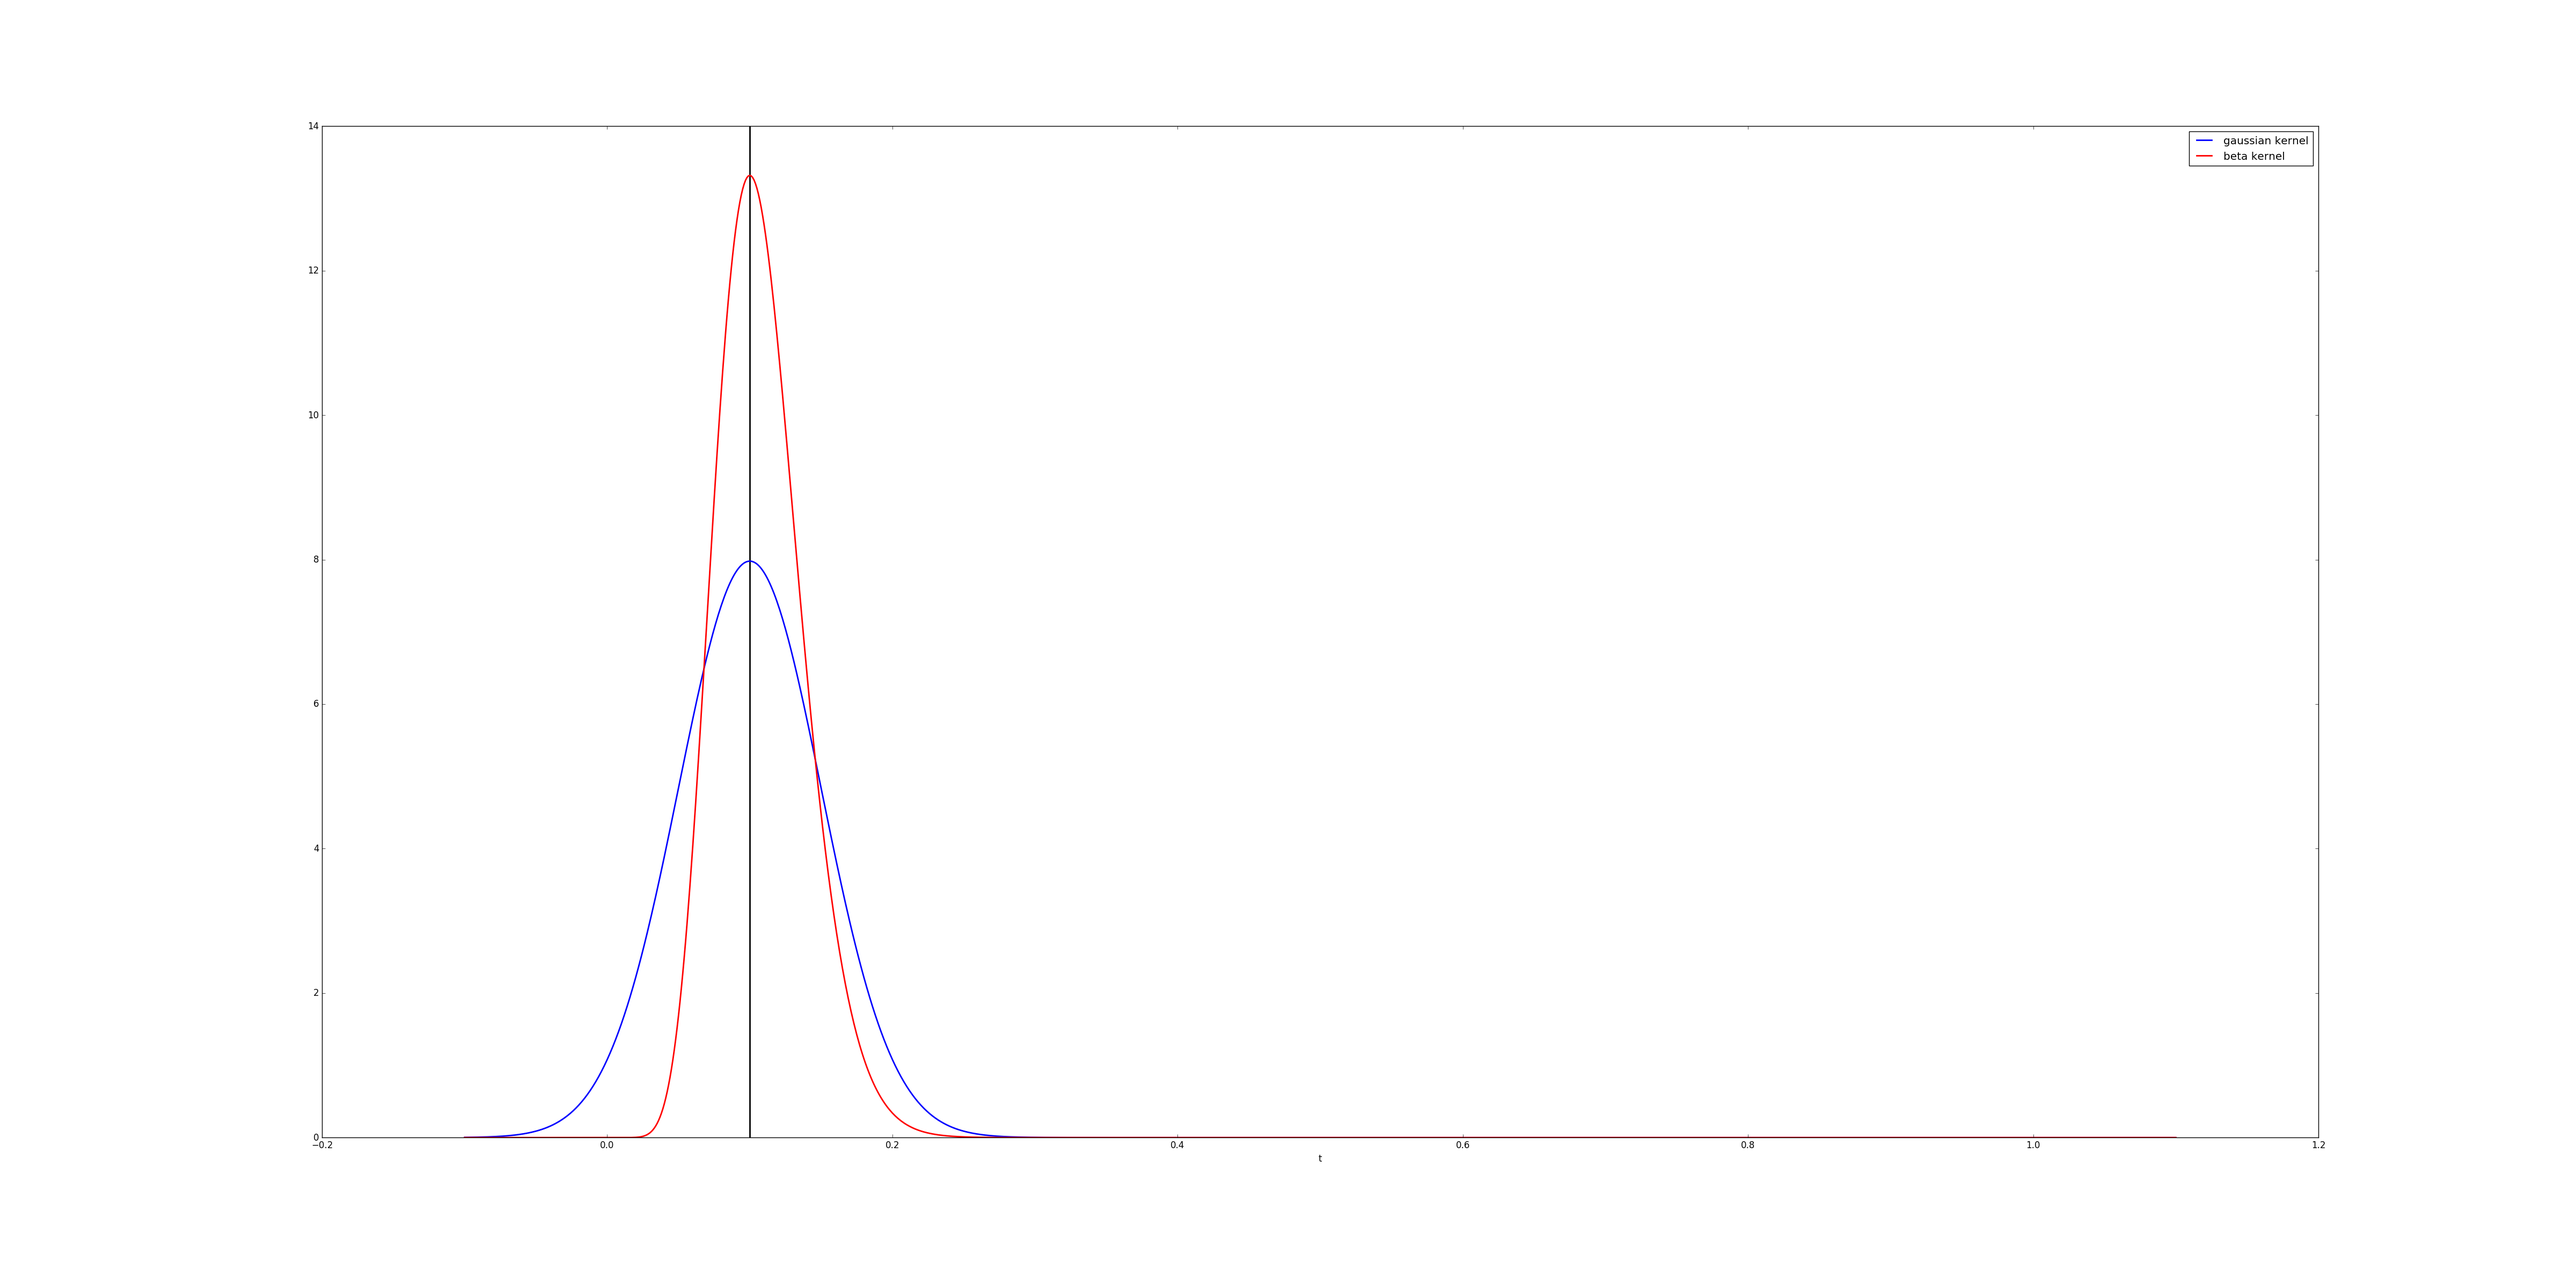
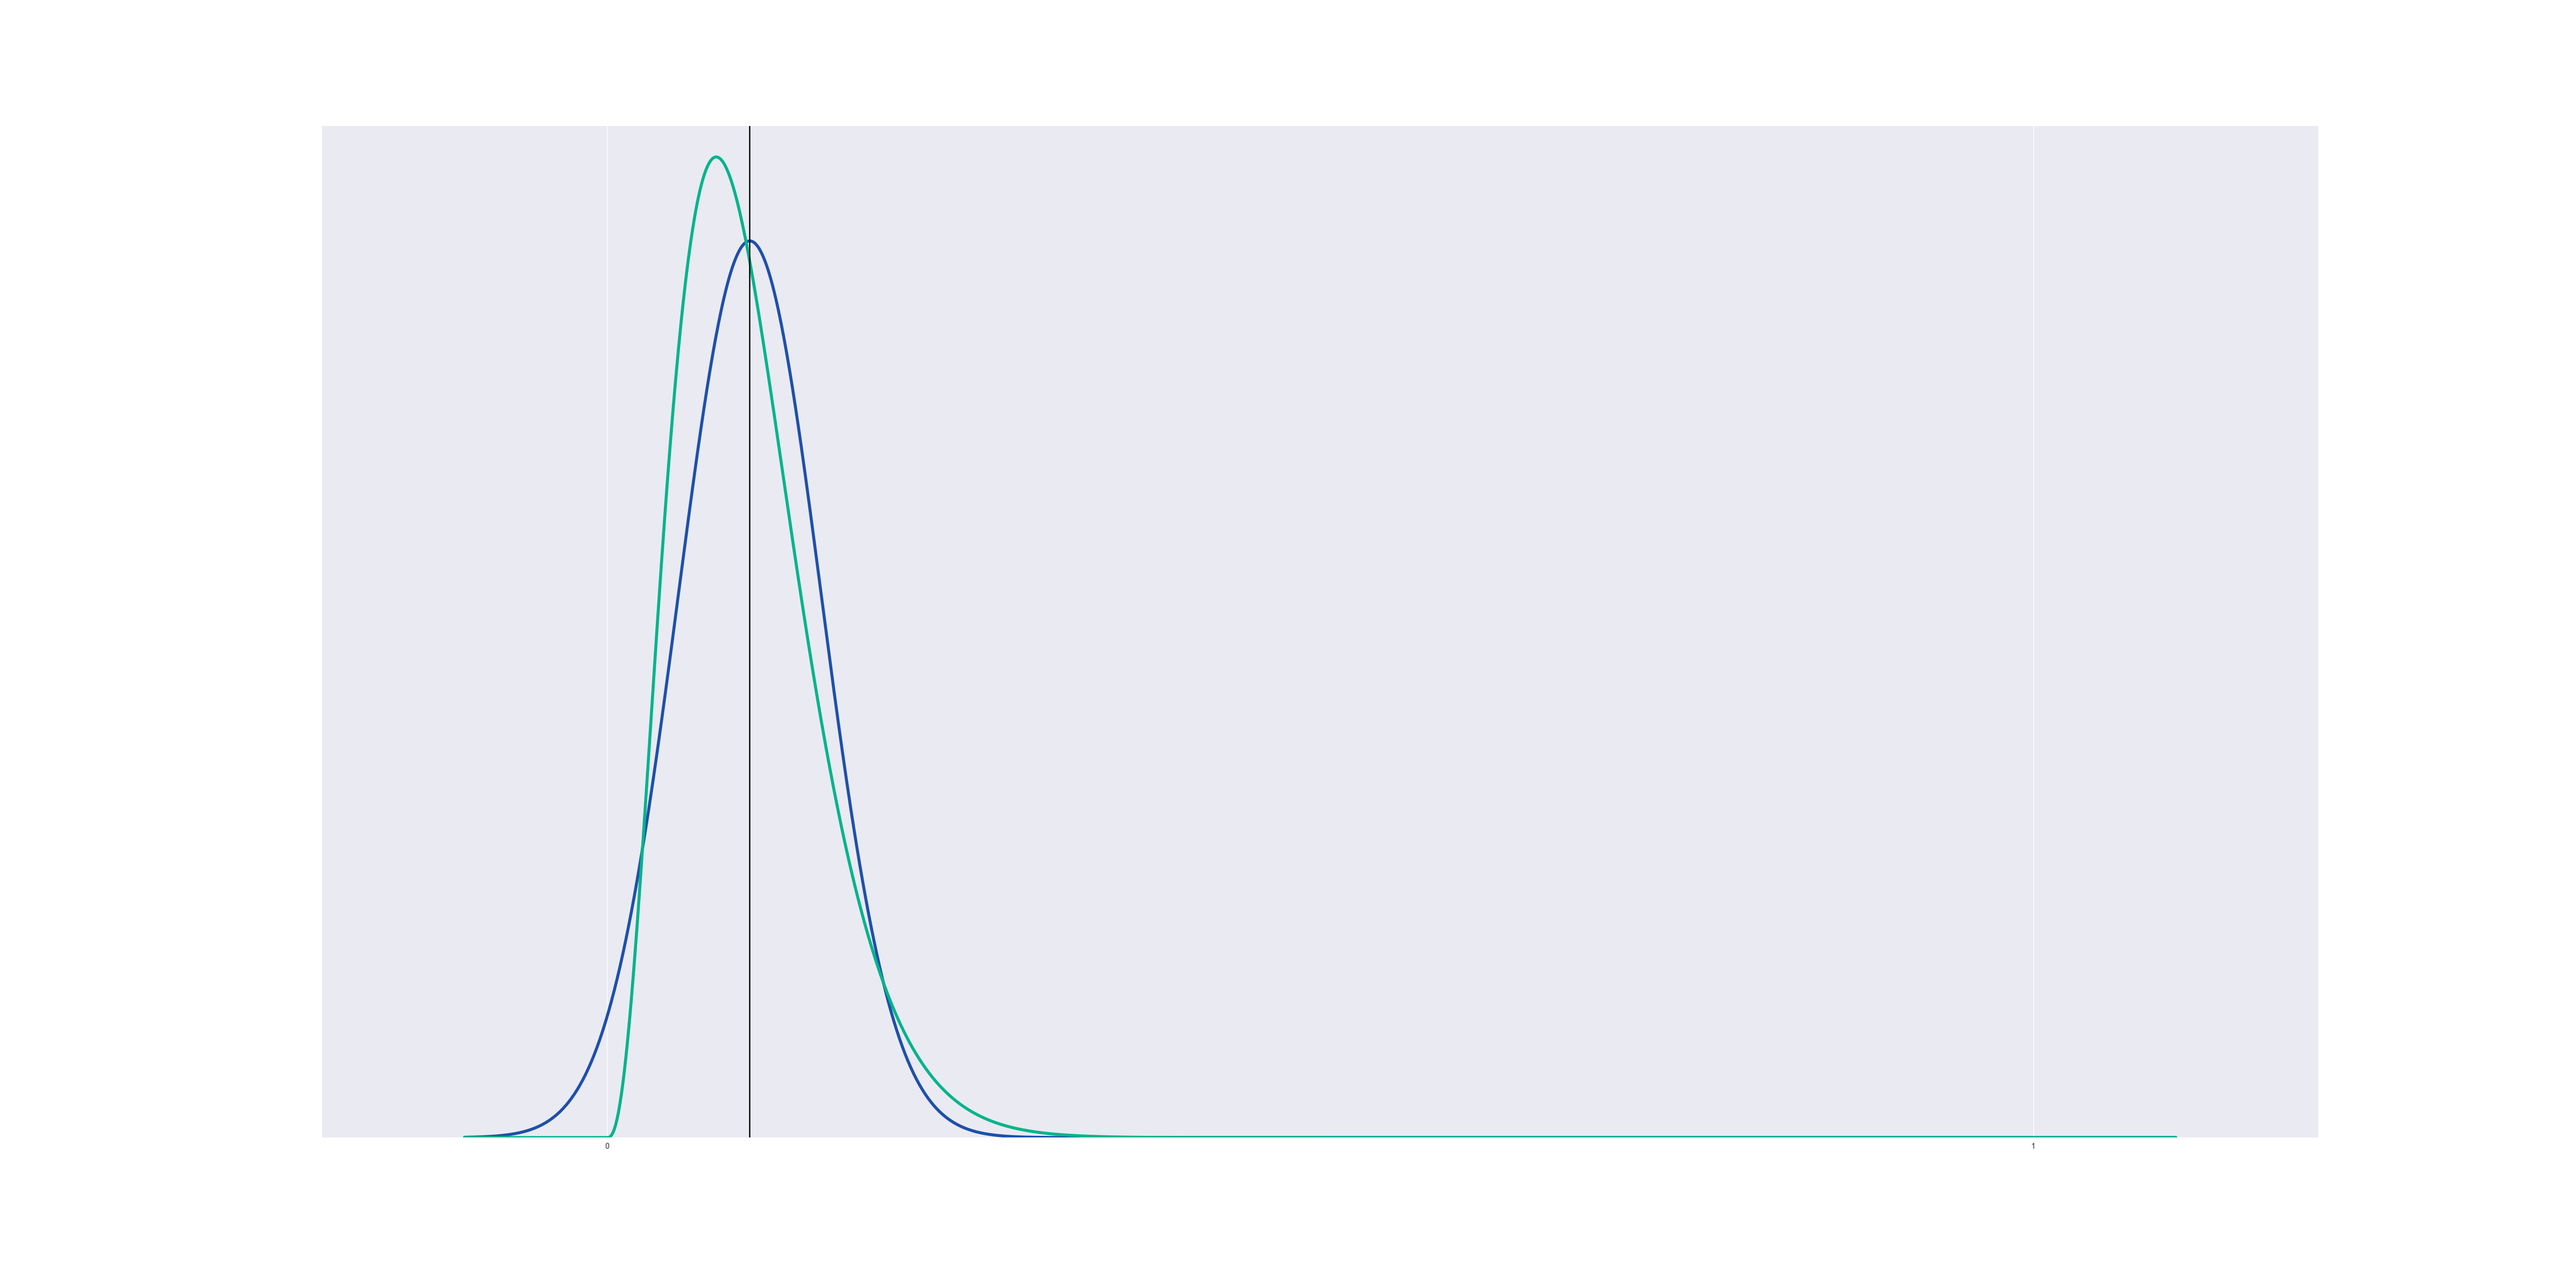
boundary respecting kernels post

diff --git a/content/boundary_respecting_kernels.md b/content/boundary_respecting_kernels.md
@@ -29,7 +29,13 @@ The way to resolve this issue is to replace the Gaussian kernel with a kernel th
 
 The beta distribution takes two parameters, $@ \alpha $@ and $@ \beta$@, has mean $@ \alpha/(\alpha+\beta) $@ and variance $@ \alpha\beta/((\alpha+\beta)^2(\alpha+\beta+1)) $@.
 
-So what we'll do is choose a bandwidth parameter $@ K $@, set $@ \alpha = dK $@ and $@ \beta = (1-d)K $@ for a data point $@ d $@. Then the mean will be $@ \alpha/\(\alpha+\beta) = dK/(dK+(1-d)K) = d $@. The value $@ K $@ will be chosen so as to make the variance equal to a gaussian.
+So what we'll do is choose a bandwidth parameter $@ K $@, set $@ \alpha = dK $@ and $@ \beta = (1-d)K $@ for a data point $@ d $@. Then the mean will be $@ \alpha/\(\alpha+\beta) = dK/(dK+(1-d)K) = d $@. The value $@ K $@ can then be chosen so as to make the variance equal to a gaussian, i.e.:
+
+$@
+K = \frac{d(1-d)}{V} - 1
+$@
+
+(This calculation is done in the appendix.)
 
 If we remain away from the boundary, a beta distribution approximates a gaussian very closely:
 
@@ -57,8 +63,6 @@ for i in range(1000):
     gaussian_kernel += norm(data[i], sigma).pdf(xx) / 1000.0
 ```
 
-In the appendix I explain where this formula for K comes from. It's a relatively simple calculation, I just didn't want to mess with the flow of the post.
-
 ## Generalizations
 
 A generalization of this idea can be used on the unit simplex, i.e. the set of vectors with $@ \vec{d}_i \geq 0 $@ and $@ \sum_i \vec{d}_i = 1 $@.
@@ -74,6 +78,8 @@ Another situation which can arise is in [MCMC](https://en.wikipedia.org/wiki/Met
 ## Conclusion
 
 When using kernel approximations, don't treat the process as a black box. One can often preserve valuable properties and get more accurate results simply by making model-based tweaks to the kernel. This is a very important fact I learned in my academic career as a (computational) harmonic analyst, but which I don't see the data science community adopting.
+
+**Special thanks** to [Lisa Mahapatra](http://lisamahapatra.com/) for massively improving my data visualizations.
 
 ## Appendix: Where does the formula for K come from?
 
@@ -97,4 +103,16 @@ $@
 K = \frac{d(1-d)}{V} - 1
 $@
 
-There is one important fact to note. For $@ d < V $@, the resulting $@ K $@ will actually become negative. This will result in invalid beta distributions. So we actually need to bound $@ K $@ below. I found values in the neighborhood of 100-200 work reasonably well in practice.
+There is one important fact to note. For $@ d < V $@, the resulting $@ K $@ will actually become negative. This will result in a singular beta distribution. So to get a non-singular PDF, we need to bound $@ K $@ below by zero; in practice I've found choosing $@ K = \max(\frac{d(1-d)}{V} - 1, 100) $@ works reasonably well.
+
+### Unregularized vs regularized
+
+If we do not impose regularization conditions, then if any data points exist which make $@ K $@ negative, the pdf becomes singular at $@ x=0 $@ and/or $@ x=1 $@.
+
+![approximating gaussians with beta distributions](/blog_media/2016/boundary_respecting_kernels/gaussian_unregularized.png)
+
+However, the *CDF* of the distribution does NOT become singular, merely non-differentiable.
+
+![approximating gaussians with beta distributions](/blog_media/2016/boundary_respecting_kernels/gaussian_unregularized_cdf.png)
+
+The nature of the problem is that the PDF behaves like $@ x^K $@ for some $@ -1 < K < 0 $@ near $@ x=0 $@. This is an integrable singularity, and the CDF then behaves like $@ x^{K+1} $@ which is a continuous function.
